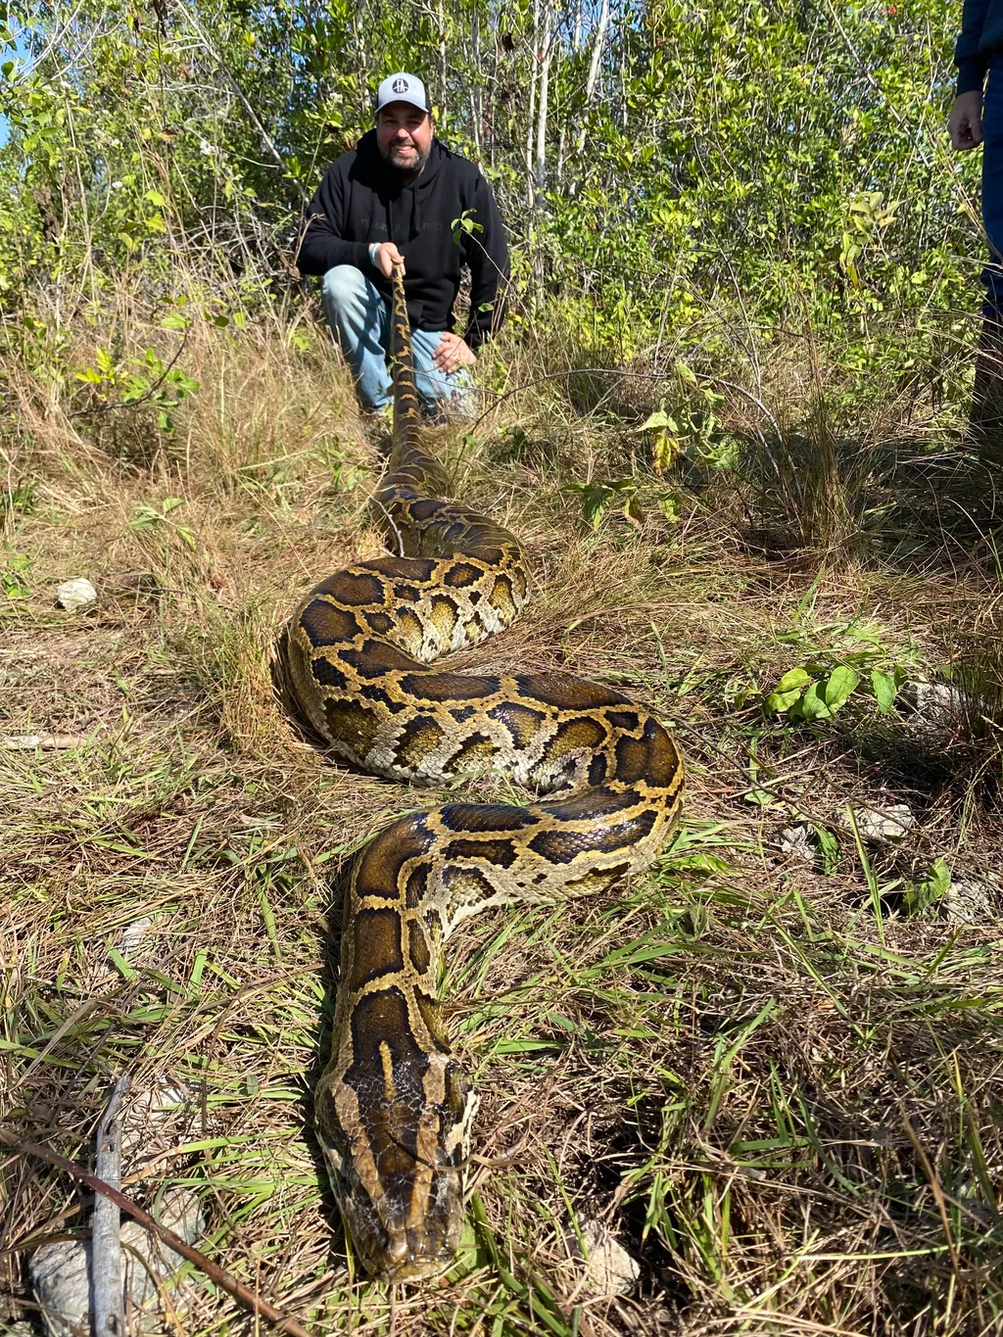
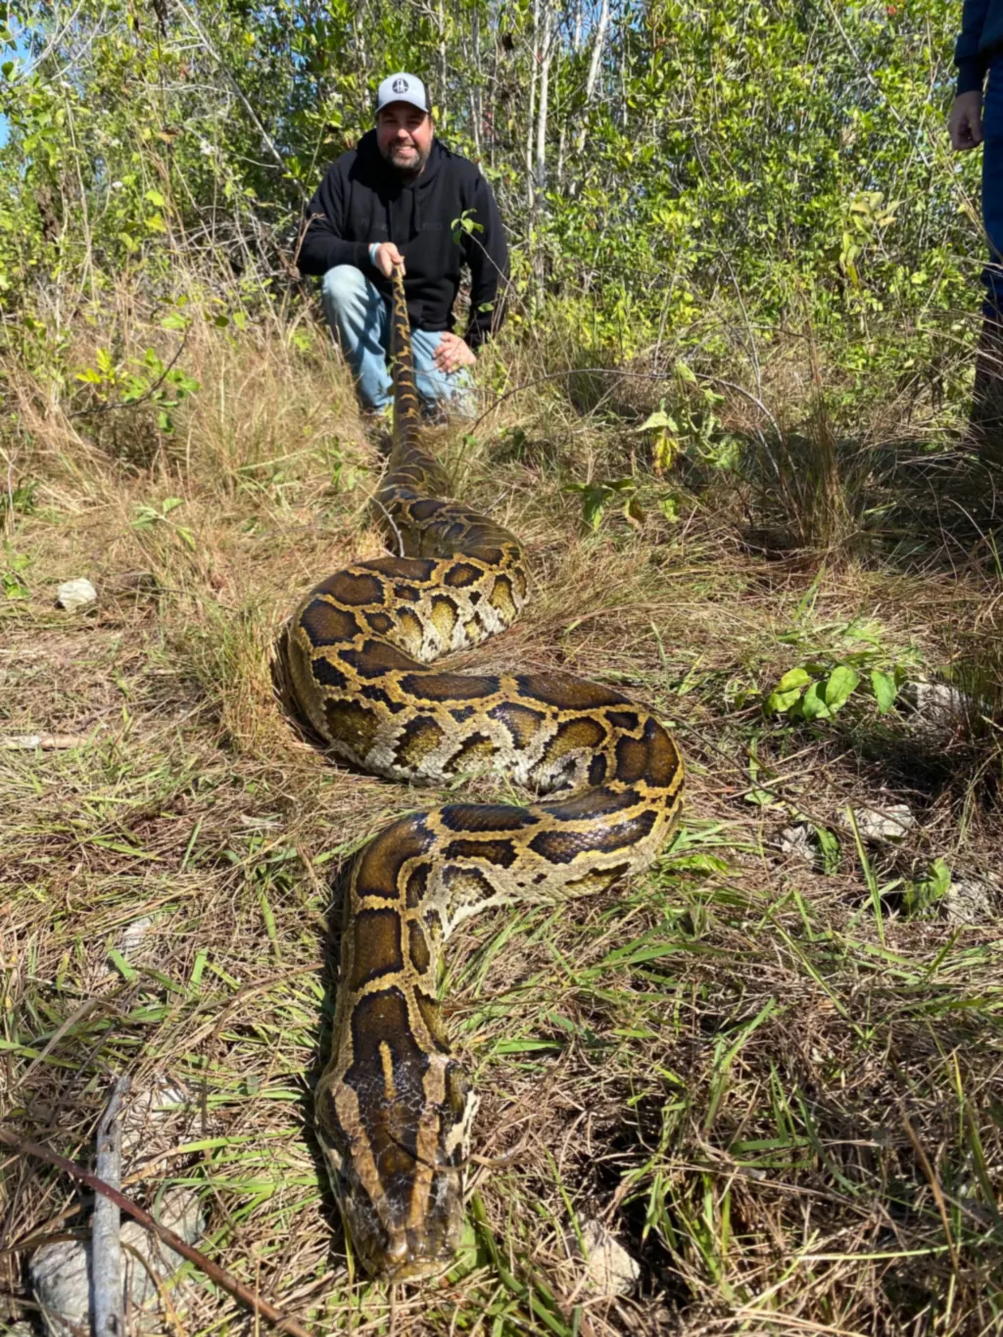
Gallery review fixes: tile order, caption gradient, weight
- Tiles reordered so the three columns end within 70px of each other
  and the Oval Office, the ring and Bowden open the page; column-top
  tiles load eagerly.
- Caption gradient anchored to the text so the gold label clears 4.5:1
  on every photo, including two-line captions on phones.
- The 1500px renditions dropped from the gallery and the podium photo
  (tiles never render above 367px); the two grainy photos re-encoded
  with a light denoise. Images folder 21 MB to 12 MB.
- Opening line swapped for one of Erik's that fits this batch; the
  hover hint hidden on touch screens; pheasant alt names Erik.

diff --git a/experiences.html b/experiences.html
@@ -62,8 +62,8 @@
 <section class="band band--navy">
   <div class="section">
     <h1 class="h2 h2--xl">Crazy experiences</h1>
-    <p class="pull">I believe each of us see, hear or experience moments, especially around the vulnerable and hurting, that never leave our mind and heart.</p>
-    <p class="gallery__hint">Hover a photo, or tap on a phone, for where and when.</p>
+    <p class="pull">I want to share a little bit about those experiences.</p>
+    <p class="gallery__hint">Hover a photo for where and when.</p>
   </div>
 </section>
 
@@ -80,101 +80,101 @@
     <div class="gallery">
       <figure class="tile" tabindex="0">
         <picture>
-          <source type="image/webp" srcset="images/turkey-hunt-640.webp 640w, images/turkey-hunt-1024.webp 1024w, images/turkey-hunt-1600.webp 1600w" sizes="(max-width: 560px) 100vw, (max-width: 1000px) 50vw, 400px">
-          <img src="images/turkey-hunt-1024.jpg" srcset="images/turkey-hunt-640.jpg 640w, images/turkey-hunt-1024.jpg 1024w, images/turkey-hunt-1600.jpg 1600w" sizes="(max-width: 560px) 100vw, (max-width: 1000px) 50vw, 400px" alt="Erik Dellenback and a friend in camouflage kneeling behind a wild turkey" width="1024" height="768" loading="lazy" decoding="async">
-        </picture>
-        <figcaption class="tile__cap"><span class="tile__label">Outdoors</span><span class="tile__line">Turkey season</span></figcaption>
-      </figure>
-      <figure class="tile" tabindex="0">
-        <picture>
-          <source type="image/webp" srcset="images/bowden-last-game-640.webp 640w, images/bowden-last-game-1024.webp 1024w, images/bowden-last-game-1600.webp 1600w" sizes="(max-width: 560px) 100vw, (max-width: 1000px) 50vw, 400px">
-          <img src="images/bowden-last-game-1024.jpg" srcset="images/bowden-last-game-640.jpg 640w, images/bowden-last-game-1024.jpg 1024w, images/bowden-last-game-1600.jpg 1600w" sizes="(max-width: 560px) 100vw, (max-width: 1000px) 50vw, 400px" alt="Bobby Bowden at midfield holding a spear overhead before a full stadium" width="1024" height="681" loading="lazy" decoding="async">
-        </picture>
-        <figcaption class="tile__cap"><span class="tile__label">Football</span><span class="tile__line">Bobby Bowden’s last game, Gator Bowl</span></figcaption>
-      </figure>
-      <figure class="tile" tabindex="0">
-        <picture>
-          <source type="image/webp" srcset="images/pro-family-network-640.webp 640w, images/pro-family-network-1024.webp 1024w, images/pro-family-network-1600.webp 1600w" sizes="(max-width: 560px) 100vw, (max-width: 1000px) 50vw, 400px">
-          <img src="images/pro-family-network-1024.jpg" srcset="images/pro-family-network-640.jpg 640w, images/pro-family-network-1024.jpg 1024w, images/pro-family-network-1600.jpg 1600w" sizes="(max-width: 560px) 100vw, (max-width: 1000px) 50vw, 400px" alt="Erik Dellenback speaking from a podium to a seated conference audience" width="1024" height="768" loading="lazy" decoding="async">
-        </picture>
-        <figcaption class="tile__cap"><span class="tile__label">Speaking</span><span class="tile__line">Pro-Family Legislative Network</span></figcaption>
-      </figure>
-      <figure class="tile" tabindex="0">
-        <picture>
-          <source type="image/webp" srcset="images/python-hunt-640.webp 640w, images/python-hunt-1024.webp 1024w, images/python-hunt-1512.webp 1512w" sizes="(max-width: 560px) 100vw, (max-width: 1000px) 50vw, 400px">
-          <img src="images/python-hunt-1024.jpg" srcset="images/python-hunt-640.jpg 640w, images/python-hunt-1024.jpg 1024w, images/python-hunt-1512.jpg 1512w" sizes="(max-width: 560px) 100vw, (max-width: 1000px) 50vw, 400px" alt="Erik Dellenback kneeling in tall grass holding a large python" width="768" height="1024" loading="lazy" decoding="async">
-        </picture>
-        <figcaption class="tile__cap"><span class="tile__label">Outdoors</span><span class="tile__line">Python hunt</span></figcaption>
-      </figure>
-      <figure class="tile" tabindex="0">
-        <picture>
-          <source type="image/webp" srcset="images/acc-ring-640.webp 640w, images/acc-ring-1024.webp 1024w, images/acc-ring-1600.webp 1600w" sizes="(max-width: 560px) 100vw, (max-width: 1000px) 50vw, 400px">
-          <img src="images/acc-ring-1024.jpg" srcset="images/acc-ring-640.jpg 640w, images/acc-ring-1024.jpg 1024w, images/acc-ring-1600.jpg 1600w" sizes="(max-width: 560px) 100vw, (max-width: 1000px) 50vw, 400px" alt="Close-up of an ACC Championship ring with a diamond face" width="1024" height="768" loading="lazy" decoding="async">
-        </picture>
-        <figcaption class="tile__cap"><span class="tile__label">Football</span><span class="tile__line">The first ACC Championship ring</span></figcaption>
-      </figure>
-      <figure class="tile" tabindex="0">
-        <picture>
-          <source type="image/webp" srcset="images/chambers-640.webp 640w, images/chambers-1024.webp 1024w, images/chambers-1600.webp 1600w" sizes="(max-width: 560px) 100vw, (max-width: 1000px) 50vw, 400px">
-          <img src="images/chambers-1024.jpg" srcset="images/chambers-640.jpg 640w, images/chambers-1024.jpg 1024w, images/chambers-1600.jpg 1600w" sizes="(max-width: 560px) 100vw, (max-width: 1000px) 50vw, 400px" alt="Erik Dellenback talking with a judge in robes beside an American flag" width="768" height="1024" loading="lazy" decoding="async">
-        </picture>
-        <figcaption class="tile__cap"><span class="tile__label">Government</span><span class="tile__line">In chambers</span></figcaption>
-      </figure>
-      <figure class="tile" tabindex="0">
-        <picture>
-          <source type="image/webp" srcset="images/pheasant-hunt-640.webp 640w, images/pheasant-hunt-1024.webp 1024w, images/pheasant-hunt-1597.webp 1597w" sizes="(max-width: 560px) 100vw, (max-width: 1000px) 50vw, 400px">
-          <img src="images/pheasant-hunt-1024.jpg" srcset="images/pheasant-hunt-640.jpg 640w, images/pheasant-hunt-1024.jpg 1024w, images/pheasant-hunt-1597.jpg 1597w" sizes="(max-width: 560px) 100vw, (max-width: 1000px) 50vw, 400px" alt="Three men in orange hunting vests smiling in an open field" width="1024" height="773" loading="lazy" decoding="async">
-        </picture>
-        <figcaption class="tile__cap"><span class="tile__label">Outdoors</span><span class="tile__line">Pheasant hunt</span></figcaption>
-      </figure>
-      <figure class="tile" tabindex="0">
-        <picture>
-          <source type="image/webp" srcset="images/oval-office-prayer-640.webp 640w, images/oval-office-prayer-960.webp 960w" sizes="(max-width: 560px) 100vw, (max-width: 1000px) 50vw, 400px">
-          <img src="images/oval-office-prayer-960.jpg" srcset="images/oval-office-prayer-640.jpg 640w, images/oval-office-prayer-960.jpg 960w" sizes="(max-width: 560px) 100vw, (max-width: 1000px) 50vw, 400px" alt="A group of faith leaders praying with President Trump at the Resolute Desk" width="768" height="1024" loading="lazy" decoding="async">
+          <source type="image/webp" srcset="images/oval-office-prayer-640.webp 640w, images/oval-office-prayer-960.webp 960w" sizes="(max-width: 560px) 88vw, (max-width: 1000px) 50vw, 400px">
+          <img src="images/oval-office-prayer-960.jpg" srcset="images/oval-office-prayer-640.jpg 640w, images/oval-office-prayer-960.jpg 960w" sizes="(max-width: 560px) 88vw, (max-width: 1000px) 50vw, 400px" alt="A group of faith leaders praying with President Trump at the Resolute Desk" width="768" height="1024" decoding="async">
         </picture>
         <figcaption class="tile__cap"><span class="tile__label">Government</span><span class="tile__line">Prayer in the Oval Office</span></figcaption>
       </figure>
       <figure class="tile" tabindex="0">
         <picture>
-          <source type="image/webp" srcset="images/beach-baptism-640.webp 640w, images/beach-baptism-1024.webp 1024w, images/beach-baptism-1080.webp 1080w" sizes="(max-width: 560px) 100vw, (max-width: 1000px) 50vw, 400px">
-          <img src="images/beach-baptism-1024.jpg" srcset="images/beach-baptism-640.jpg 640w, images/beach-baptism-1024.jpg 1024w, images/beach-baptism-1080.jpg 1080w" sizes="(max-width: 560px) 100vw, (max-width: 1000px) 50vw, 400px" alt="Baptism in the ocean with arms raised and the words 2552 baptized" width="819" height="1024" loading="lazy" decoding="async">
+          <source type="image/webp" srcset="images/beach-baptism-640.webp 640w, images/beach-baptism-1024.webp 1024w, images/beach-baptism-1080.webp 1080w" sizes="(max-width: 560px) 88vw, (max-width: 1000px) 50vw, 400px">
+          <img src="images/beach-baptism-1024.jpg" srcset="images/beach-baptism-640.jpg 640w, images/beach-baptism-1024.jpg 1024w, images/beach-baptism-1080.jpg 1080w" sizes="(max-width: 560px) 88vw, (max-width: 1000px) 50vw, 400px" alt="Baptism in the ocean with arms raised and the words 2552 baptized" width="819" height="1024" loading="lazy" decoding="async">
         </picture>
         <figcaption class="tile__cap"><span class="tile__label">Church</span><span class="tile__line">2,552 baptized</span></figcaption>
       </figure>
       <figure class="tile" tabindex="0">
         <picture>
-          <source type="image/webp" srcset="images/careportal-conference-640.webp 640w, images/careportal-conference-1024.webp 1024w, images/careportal-conference-1200.webp 1200w" sizes="(max-width: 560px) 100vw, (max-width: 1000px) 50vw, 400px">
-          <img src="images/careportal-conference-1024.jpg" srcset="images/careportal-conference-640.jpg 640w, images/careportal-conference-1024.jpg 1024w, images/careportal-conference-1200.jpg 1200w" sizes="(max-width: 560px) 100vw, (max-width: 1000px) 50vw, 400px" alt="Erik Dellenback smiling on stage at the CarePortal Conference" width="1024" height="512" loading="lazy" decoding="async">
+          <source type="image/webp" srcset="images/turkey-hunt-640.webp 640w, images/turkey-hunt-1024.webp 1024w" sizes="(max-width: 560px) 88vw, (max-width: 1000px) 50vw, 400px">
+          <img src="images/turkey-hunt-1024.jpg" srcset="images/turkey-hunt-640.jpg 640w, images/turkey-hunt-1024.jpg 1024w" sizes="(max-width: 560px) 88vw, (max-width: 1000px) 50vw, 400px" alt="Erik Dellenback and a friend in camouflage kneeling behind a wild turkey" width="1024" height="768" loading="lazy" decoding="async">
+        </picture>
+        <figcaption class="tile__cap"><span class="tile__label">Outdoors</span><span class="tile__line">Turkey season</span></figcaption>
+      </figure>
+      <figure class="tile" tabindex="0">
+        <picture>
+          <source type="image/webp" srcset="images/tebow-office-640.webp 640w, images/tebow-office-1024.webp 1024w" sizes="(max-width: 560px) 88vw, (max-width: 1000px) 50vw, 400px">
+          <img src="images/tebow-office-1024.jpg" srcset="images/tebow-office-640.jpg 640w, images/tebow-office-1024.jpg 1024w" sizes="(max-width: 560px) 88vw, (max-width: 1000px) 50vw, 400px" alt="Erik Dellenback with a visitor at the Tim Tebow Foundation office" width="1024" height="768" loading="lazy" decoding="async">
+        </picture>
+        <figcaption class="tile__cap"><span class="tile__label">Ministry</span><span class="tile__line">Tim Tebow Foundation office</span></figcaption>
+      </figure>
+      <figure class="tile" tabindex="0">
+        <picture>
+          <source type="image/webp" srcset="images/careportal-conference-640.webp 640w, images/careportal-conference-1024.webp 1024w, images/careportal-conference-1200.webp 1200w" sizes="(max-width: 560px) 88vw, (max-width: 1000px) 50vw, 400px">
+          <img src="images/careportal-conference-1024.jpg" srcset="images/careportal-conference-640.jpg 640w, images/careportal-conference-1024.jpg 1024w, images/careportal-conference-1200.jpg 1200w" sizes="(max-width: 560px) 88vw, (max-width: 1000px) 50vw, 400px" alt="Erik Dellenback smiling on stage at the CarePortal Conference" width="1024" height="512" loading="lazy" decoding="async">
         </picture>
         <figcaption class="tile__cap"><span class="tile__label">Speaking</span><span class="tile__line">CarePortal Conference, Kansas City</span></figcaption>
       </figure>
       <figure class="tile" tabindex="0">
         <picture>
-          <source type="image/webp" srcset="images/sailfish-640.webp 640w, images/sailfish-678.webp 678w" sizes="(max-width: 560px) 100vw, (max-width: 1000px) 50vw, 400px">
-          <img src="images/sailfish-678.jpg" srcset="images/sailfish-640.jpg 640w, images/sailfish-678.jpg 678w" sizes="(max-width: 560px) 100vw, (max-width: 1000px) 50vw, 400px" alt="Three men leaning over the stern of a boat holding a sailfish" width="542" height="1024" loading="lazy" decoding="async">
+          <source type="image/webp" srcset="images/acc-ring-640.webp 640w, images/acc-ring-1024.webp 1024w" sizes="(max-width: 560px) 88vw, (max-width: 1000px) 50vw, 400px">
+          <img src="images/acc-ring-1024.jpg" srcset="images/acc-ring-640.jpg 640w, images/acc-ring-1024.jpg 1024w" sizes="(max-width: 560px) 88vw, (max-width: 1000px) 50vw, 400px" alt="Close-up of an ACC Championship ring with a diamond face" width="1024" height="768" decoding="async">
+        </picture>
+        <figcaption class="tile__cap"><span class="tile__label">Football</span><span class="tile__line">The first ACC Championship ring</span></figcaption>
+      </figure>
+      <figure class="tile" tabindex="0">
+        <picture>
+          <source type="image/webp" srcset="images/sailfish-640.webp 640w, images/sailfish-678.webp 678w" sizes="(max-width: 560px) 88vw, (max-width: 1000px) 50vw, 400px">
+          <img src="images/sailfish-678.jpg" srcset="images/sailfish-640.jpg 640w, images/sailfish-678.jpg 678w" sizes="(max-width: 560px) 88vw, (max-width: 1000px) 50vw, 400px" alt="Three men leaning over the stern of a boat holding a sailfish" width="542" height="1024" loading="lazy" decoding="async">
         </picture>
         <figcaption class="tile__cap"><span class="tile__label">Outdoors</span><span class="tile__line">Sailfish, Casa Vieja Lodge</span></figcaption>
       </figure>
       <figure class="tile" tabindex="0">
         <picture>
-          <source type="image/webp" srcset="images/gov-scott-640.webp 640w, images/gov-scott-1024.webp 1024w, images/gov-scott-1600.webp 1600w" sizes="(max-width: 560px) 100vw, (max-width: 1000px) 50vw, 400px">
-          <img src="images/gov-scott-1024.jpg" srcset="images/gov-scott-640.jpg 640w, images/gov-scott-1024.jpg 1024w, images/gov-scott-1600.jpg 1600w" sizes="(max-width: 560px) 100vw, (max-width: 1000px) 50vw, 400px" alt="Erik Dellenback standing with Governor Rick Scott and a guest" width="1005" height="1024" loading="lazy" decoding="async">
+          <source type="image/webp" srcset="images/chambers-640.webp 640w, images/chambers-1024.webp 1024w" sizes="(max-width: 560px) 88vw, (max-width: 1000px) 50vw, 400px">
+          <img src="images/chambers-1024.jpg" srcset="images/chambers-640.jpg 640w, images/chambers-1024.jpg 1024w" sizes="(max-width: 560px) 88vw, (max-width: 1000px) 50vw, 400px" alt="Erik Dellenback talking with a judge in robes beside an American flag" width="768" height="1024" loading="lazy" decoding="async">
+        </picture>
+        <figcaption class="tile__cap"><span class="tile__label">Government</span><span class="tile__line">In chambers</span></figcaption>
+      </figure>
+      <figure class="tile" tabindex="0">
+        <picture>
+          <source type="image/webp" srcset="images/pro-family-network-640.webp 640w, images/pro-family-network-1024.webp 1024w" sizes="(max-width: 560px) 88vw, (max-width: 1000px) 50vw, 400px">
+          <img src="images/pro-family-network-1024.jpg" srcset="images/pro-family-network-640.jpg 640w, images/pro-family-network-1024.jpg 1024w" sizes="(max-width: 560px) 88vw, (max-width: 1000px) 50vw, 400px" alt="Erik Dellenback speaking from a podium to a seated conference audience" width="1024" height="768" decoding="async">
+        </picture>
+        <figcaption class="tile__cap"><span class="tile__label">Speaking</span><span class="tile__line">Pro-Family Legislative Network</span></figcaption>
+      </figure>
+      <figure class="tile" tabindex="0">
+        <picture>
+          <source type="image/webp" srcset="images/bowden-last-game-640.webp 640w, images/bowden-last-game-1024.webp 1024w" sizes="(max-width: 560px) 88vw, (max-width: 1000px) 50vw, 400px">
+          <img src="images/bowden-last-game-1024.jpg" srcset="images/bowden-last-game-640.jpg 640w, images/bowden-last-game-1024.jpg 1024w" sizes="(max-width: 560px) 88vw, (max-width: 1000px) 50vw, 400px" alt="Bobby Bowden at midfield holding a spear overhead before a full stadium" width="1024" height="681" decoding="async">
+        </picture>
+        <figcaption class="tile__cap"><span class="tile__label">Football</span><span class="tile__line">Bobby Bowden’s last game, Gator Bowl</span></figcaption>
+      </figure>
+      <figure class="tile" tabindex="0">
+        <picture>
+          <source type="image/webp" srcset="images/python-hunt-640.webp 640w, images/python-hunt-1024.webp 1024w" sizes="(max-width: 560px) 88vw, (max-width: 1000px) 50vw, 400px">
+          <img src="images/python-hunt-1024.jpg" srcset="images/python-hunt-640.jpg 640w, images/python-hunt-1024.jpg 1024w" sizes="(max-width: 560px) 88vw, (max-width: 1000px) 50vw, 400px" alt="Erik Dellenback kneeling in tall grass holding a large python" width="768" height="1024" loading="lazy" decoding="async">
+        </picture>
+        <figcaption class="tile__cap"><span class="tile__label">Outdoors</span><span class="tile__line">Python hunt</span></figcaption>
+      </figure>
+      <figure class="tile" tabindex="0">
+        <picture>
+          <source type="image/webp" srcset="images/pheasant-hunt-640.webp 640w, images/pheasant-hunt-1024.webp 1024w" sizes="(max-width: 560px) 88vw, (max-width: 1000px) 50vw, 400px">
+          <img src="images/pheasant-hunt-1024.jpg" srcset="images/pheasant-hunt-640.jpg 640w, images/pheasant-hunt-1024.jpg 1024w" sizes="(max-width: 560px) 88vw, (max-width: 1000px) 50vw, 400px" alt="Erik Dellenback and two friends in orange hunting vests smiling in an open field" width="1024" height="773" loading="lazy" decoding="async">
+        </picture>
+        <figcaption class="tile__cap"><span class="tile__label">Outdoors</span><span class="tile__line">Pheasant hunt</span></figcaption>
+      </figure>
+      <figure class="tile" tabindex="0">
+        <picture>
+          <source type="image/webp" srcset="images/gov-scott-640.webp 640w, images/gov-scott-1024.webp 1024w" sizes="(max-width: 560px) 88vw, (max-width: 1000px) 50vw, 400px">
+          <img src="images/gov-scott-1024.jpg" srcset="images/gov-scott-640.jpg 640w, images/gov-scott-1024.jpg 1024w" sizes="(max-width: 560px) 88vw, (max-width: 1000px) 50vw, 400px" alt="Erik Dellenback standing with Governor Rick Scott and a guest" width="1005" height="1024" loading="lazy" decoding="async">
         </picture>
         <figcaption class="tile__cap"><span class="tile__label">Government</span><span class="tile__line">With Governor Rick Scott</span></figcaption>
       </figure>
       <figure class="tile" tabindex="0">
         <picture>
-          <source type="image/webp" srcset="images/food-truck-640.webp 640w, images/food-truck-960.webp 960w" sizes="(max-width: 560px) 100vw, (max-width: 1000px) 50vw, 400px">
-          <img src="images/food-truck-960.jpg" srcset="images/food-truck-640.jpg 640w, images/food-truck-960.jpg 960w" sizes="(max-width: 560px) 100vw, (max-width: 1000px) 50vw, 400px" alt="A blue Auntie Anne’s food truck parked on the beach" width="1024" height="1024" loading="lazy" decoding="async">
+          <source type="image/webp" srcset="images/food-truck-640.webp 640w, images/food-truck-960.webp 960w" sizes="(max-width: 560px) 88vw, (max-width: 1000px) 50vw, 400px">
+          <img src="images/food-truck-960.jpg" srcset="images/food-truck-640.jpg 640w, images/food-truck-960.jpg 960w" sizes="(max-width: 560px) 88vw, (max-width: 1000px) 50vw, 400px" alt="A blue Auntie Anne’s food truck parked on the beach" width="1024" height="1024" loading="lazy" decoding="async">
         </picture>
         <figcaption class="tile__cap"><span class="tile__label">Business</span><span class="tile__line">The Auntie Anne’s food truck</span></figcaption>
-      </figure>
-      <figure class="tile" tabindex="0">
-        <picture>
-          <source type="image/webp" srcset="images/tebow-office-640.webp 640w, images/tebow-office-1024.webp 1024w" sizes="(max-width: 560px) 100vw, (max-width: 1000px) 50vw, 400px">
-          <img src="images/tebow-office-1024.jpg" srcset="images/tebow-office-640.jpg 640w, images/tebow-office-1024.jpg 1024w" sizes="(max-width: 560px) 100vw, (max-width: 1000px) 50vw, 400px" alt="Erik Dellenback with a visitor at the Tim Tebow Foundation office" width="1024" height="768" loading="lazy" decoding="async">
-        </picture>
-        <figcaption class="tile__cap"><span class="tile__label">Ministry</span><span class="tile__line">Tim Tebow Foundation office</span></figcaption>
       </figure>
     </div>
   </div>

diff --git a/css/site.css b/css/site.css
@@ -344,7 +344,7 @@ main:focus { outline: none; }
 .press__contact a:hover { color: var(--gold-strong); }
 
 /* Experiences gallery ---------------------------------------------------- */
-.gallery__hint { margin: 0; font-size: 13px; letter-spacing: 0.08em; text-transform: uppercase; color: var(--muted); }
+.gallery__hint { margin: 0; font-size: 12px; letter-spacing: 0.18em; text-transform: uppercase; color: var(--muted); }
 .gallery { columns: 3; column-gap: 12px; }
 @media (max-width: 1000px) { .gallery { columns: 2; } }
 @media (max-width: 560px) { .gallery { columns: 1; } }
@@ -354,7 +354,7 @@ main:focus { outline: none; }
 .tile__cap {
   position: absolute; left: 0; right: 0; bottom: 0;
   padding: 56px 16px 14px;
-  background: linear-gradient(to top, rgba(6, 9, 14, 0.88) 0%, rgba(6, 9, 14, 0.7) 40%, rgba(6, 9, 14, 0) 100%);
+  background: linear-gradient(to top, rgba(6, 9, 14, 0.88) 0, rgba(6, 9, 14, 0.78) calc(100% - 56px), rgba(6, 9, 14, 0) 100%);
   color: #fff; opacity: 0; transform: translateY(8px);
   transition: opacity 250ms ease, transform 250ms ease;
 }
@@ -362,7 +362,11 @@ main:focus { outline: none; }
 .tile__label { display: block; font-size: 11px; letter-spacing: 0.2em; text-transform: uppercase; color: var(--gold-strong); }
 .tile__line { display: block; margin-top: 4px; font-family: var(--sans); font-weight: 700; font-size: 15px; letter-spacing: 0.04em; text-transform: uppercase; line-height: 1.3; text-wrap: balance; }
 .tile:focus-visible { outline: 2px solid var(--gold); outline-offset: 2px; }
-@media (hover: none) { .tile__cap { opacity: 1; transform: none; } }
+@media (hover: none) {
+  .tile__cap { opacity: 1; transform: none; }
+  .gallery__hint { display: none; }
+  .tile:focus-within img { transform: none; }
+}
 @media (prefers-reduced-motion: reduce) {
   .tile img, .tile__cap { transition: none; }
   .tile:hover img, .tile:focus-within img { transform: none; }

diff --git a/speaking.html b/speaking.html
@@ -63,8 +63,8 @@
   <div class="section split">
     <div class="split__photo">
       <picture>
-        <source type="image/webp" srcset="images/erik-ffv-podium-640.webp 640w, images/erik-ffv-podium-1024.webp 1024w, images/erik-ffv-podium-1600.webp 1600w" sizes="(max-width: 900px) 100vw, (max-width: 1280px) 35vw, 445px">
-        <img src="images/erik-ffv-podium-1024.jpg" srcset="images/erik-ffv-podium-640.jpg 640w, images/erik-ffv-podium-1024.jpg 1024w, images/erik-ffv-podium-1600.jpg 1600w" sizes="(max-width: 900px) 100vw, (max-width: 1280px) 35vw, 445px" alt="Erik Dellenback speaking at a Florida Family Voice podium" width="1024" height="812" fetchpriority="high" decoding="async">
+        <source type="image/webp" srcset="images/erik-ffv-podium-640.webp 640w, images/erik-ffv-podium-1024.webp 1024w" sizes="(max-width: 900px) min(88vw, 520px), (max-width: 1280px) 35vw, 445px">
+        <img src="images/erik-ffv-podium-1024.jpg" srcset="images/erik-ffv-podium-640.jpg 640w, images/erik-ffv-podium-1024.jpg 1024w" sizes="(max-width: 900px) min(88vw, 520px), (max-width: 1280px) 35vw, 445px" alt="Erik Dellenback speaking at a Florida Family Voice podium" width="1024" height="812" fetchpriority="high" decoding="async">
       </picture>
     </div>
     <div>

diff --git a/docs/PAGES.md b/docs/PAGES.md
@@ -58,5 +58,8 @@ Built with fourteen photos. These captions are placeholders until Erik gives a p
 - "Turkey season" and "Pheasant hunt": where, and who is in the pheasant photo.
 - "Pro-Family Legislative Network": the city and year.
 - "Sailfish, Casa Vieja Lodge": year.
+- "Tim Tebow Foundation office": the visitor looks like Senator Marco Rubio; confirm before naming him.
+- "With Governor Rick Scott": the woman appears to be First Lady Ann Scott; confirm before naming her.
+- The opening quote is a placeholder line of Erik's ("I want to share a little bit about those experiences") until the Haiti and Night to Shine photos arrive; then restore "I believe each of us see, hear or experience moments, especially around the vulnerable and hurting, that never leave our mind and heart."
 
 Left out on purpose: the "Vote No on 4" photo (a campaign image; Erik's call), the official headshot (saved for the About page), and the "FullSizeRender" items in the zip, which were Dropbox link files rather than photos.
